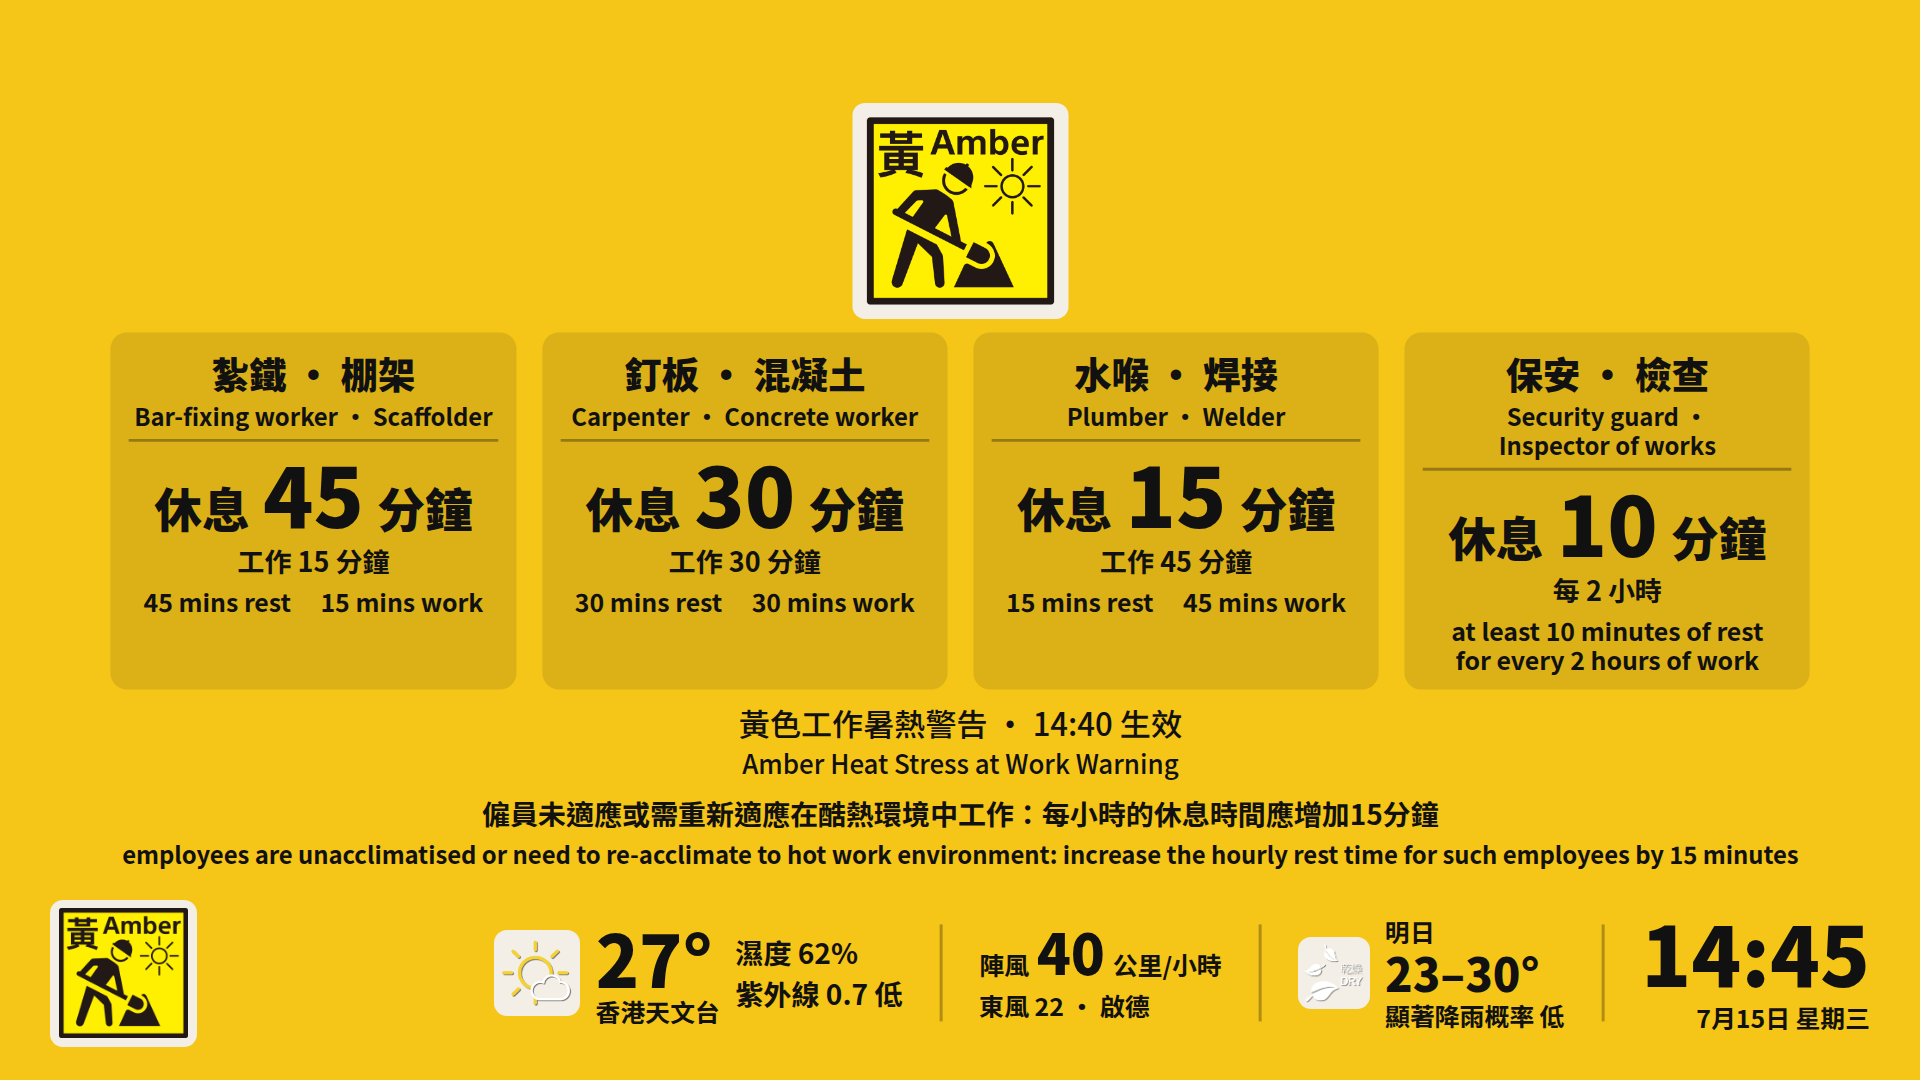
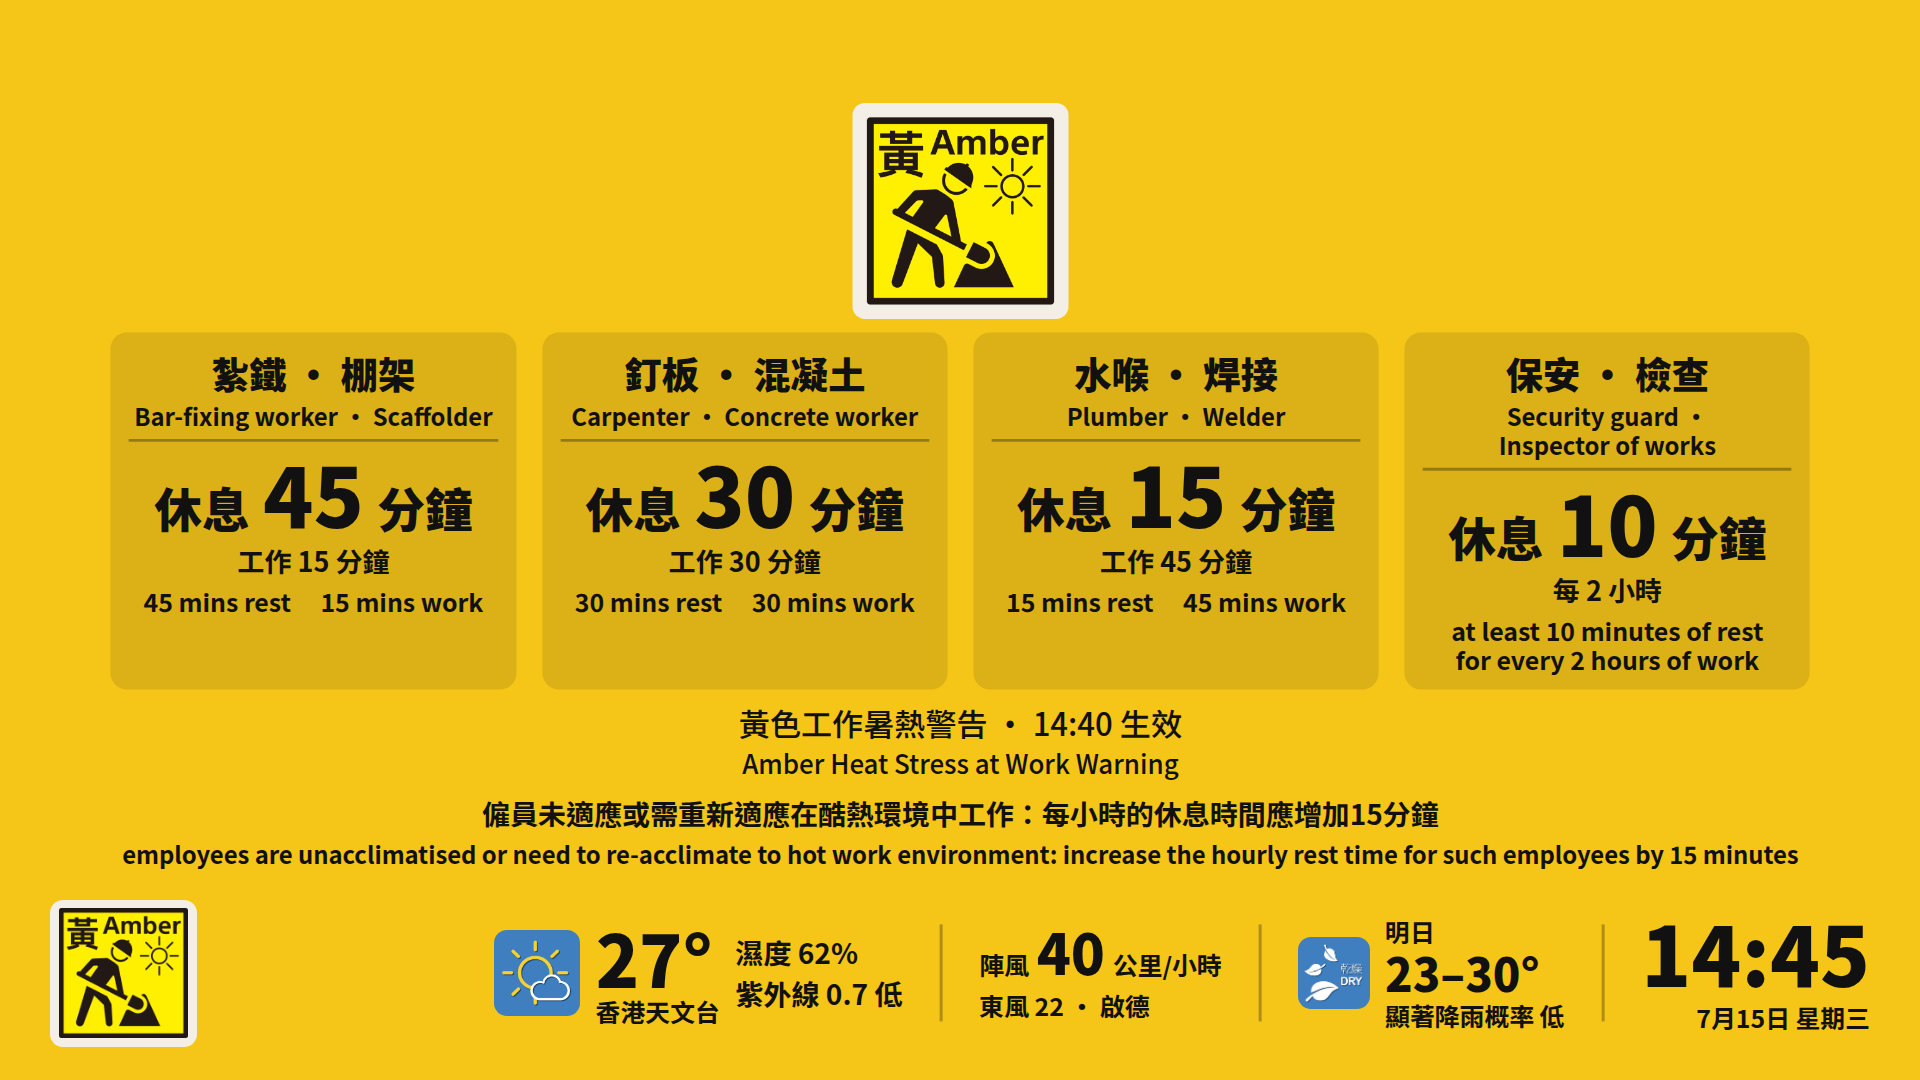
docs: screenshots and measured scales after merging master
- All 14 screenshots in docs/demo taken again from the merged kiosk:
  the sky-blue weather tiles (#8) on the bar, and 「極端情況」 (#5) with
  its English, as the demo site shows English.
- English spec §7: every preview case measured again at 1920×1080 and
  1080×1920. The 44 earlier cases give the same scales to the percent,
  and 「極端情況」 fits at 89 % landscape and 95–100 % portrait, with
  nothing given up.

Changed region(s): [[0.6562, 0.8556, 0.7188, 0.9472], [0.25, 0.8556, 0.3125, 0.9472]]

diff --git a/docs/superpowers/specs/2026-11-07-english-line-design.md b/docs/superpowers/specs/2026-11-07-english-line-design.md
@@ -153,12 +153,13 @@ HKO's `warnsum` puts only the colour in `type` for rainstorm and fire danger war
 | Weather instructions (Signals 8–10, black and red rain, tsunami, Pre-No. 8, landslip) | 98–100 % (100 %) | 100 % (100 %) |
 | Normal day, with or without other warnings on the bar | 95 % (100 %) | 91–100 % (100 %) |
 | Heat stress, Amber / Red / Black | 96–100 % (100 %) | 76–78 % (96–100 %) |
-| Normal day with one supervisor line (Signal 1 or 3, Strong Monsoon, amber rain, thunderstorm) | 83–86 % (100 %) | 75–89 % (94–100 %) |
+| Normal day with one supervisor line (Signal 1 or 3, Strong Monsoon, amber rain, thunderstorm, and Signal 1 just after 「極端情況」 ends) | 83–86 % (100 %) | 75–89 % (94–100 %) |
 | Amber heat stress with Signal 1 or 3 | 85 % (100 %) | 66 % (94 %) |
 | Amber rain with Signal 3 (two supervisor lines) | 78 % (98 %) | 71 % (94 %) |
 | Amber heat stress with a thunderstorm | 82 % (100 %) | 64 %, the warning's and the note's English given up (81 %) |
+| 「極端情況」, alone or with warnings on the bar | 89 % (100 %) | 95–100 % (100 %) |
 
-Nothing runs into the bar or under the banner in any case, in either orientation. The busiest days are portrait heat-stress days with a supervisor line, which the Chinese-only screen already shrinks. A busy test site with five or six tile groups and long English names shows everything at 60–67 % in landscape. In portrait it gives up the warning's and the note's English on heat-stress days (63 %), and all of the English when a supervisor line is added too (67–75 %). Nothing overlaps there either.
+Nothing runs into the bar or under the banner in any case, in either orientation. After merging master (supervisor alerts, 「極端情況」, the sky-blue weather tiles), all 48 cases were measured again: the 44 earlier ones gave the same scales, to the percent. The busiest days are portrait heat-stress days with a supervisor line, which the Chinese-only screen already shrinks. A busy test site with five or six tile groups and long English names shows everything at 60–67 % in landscape. In portrait it gives up the warning's and the note's English on heat-stress days (63 %), and all of the English when a supervisor line is added too (67–75 %). Nothing overlaps there either.
 
 ## 8. Rules for the future
 
